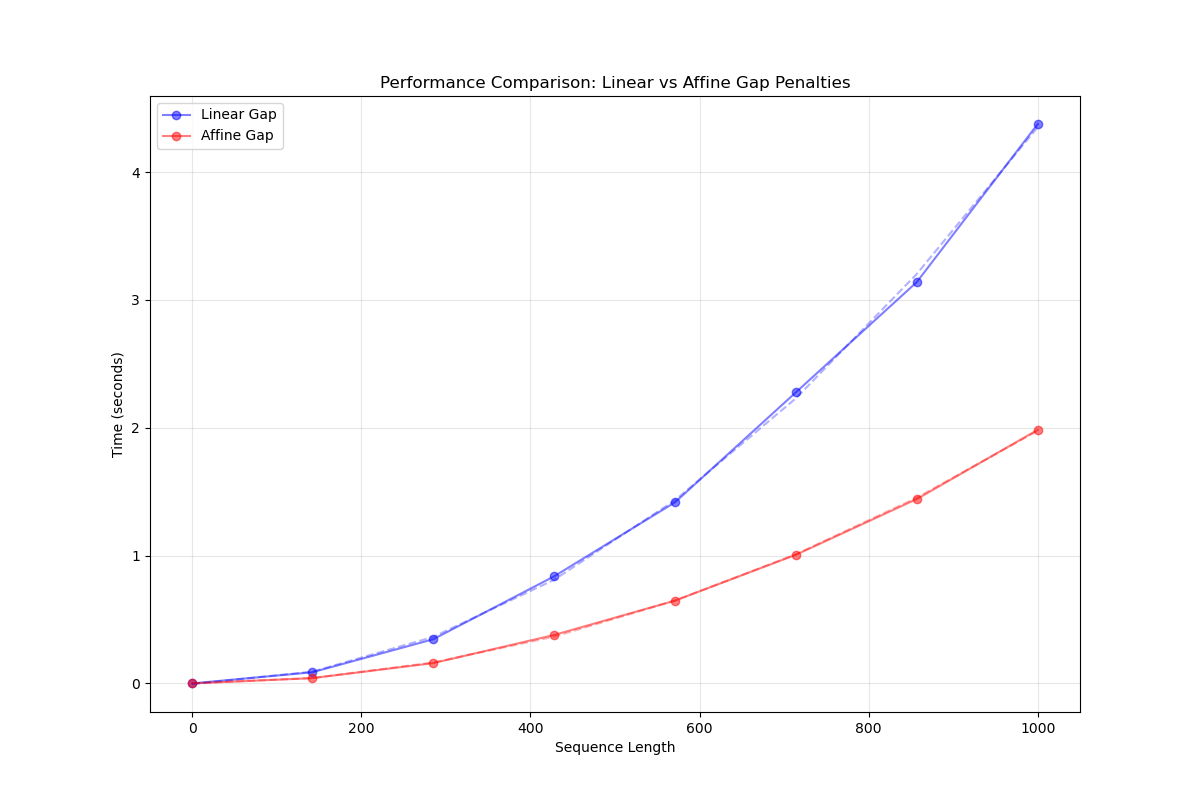
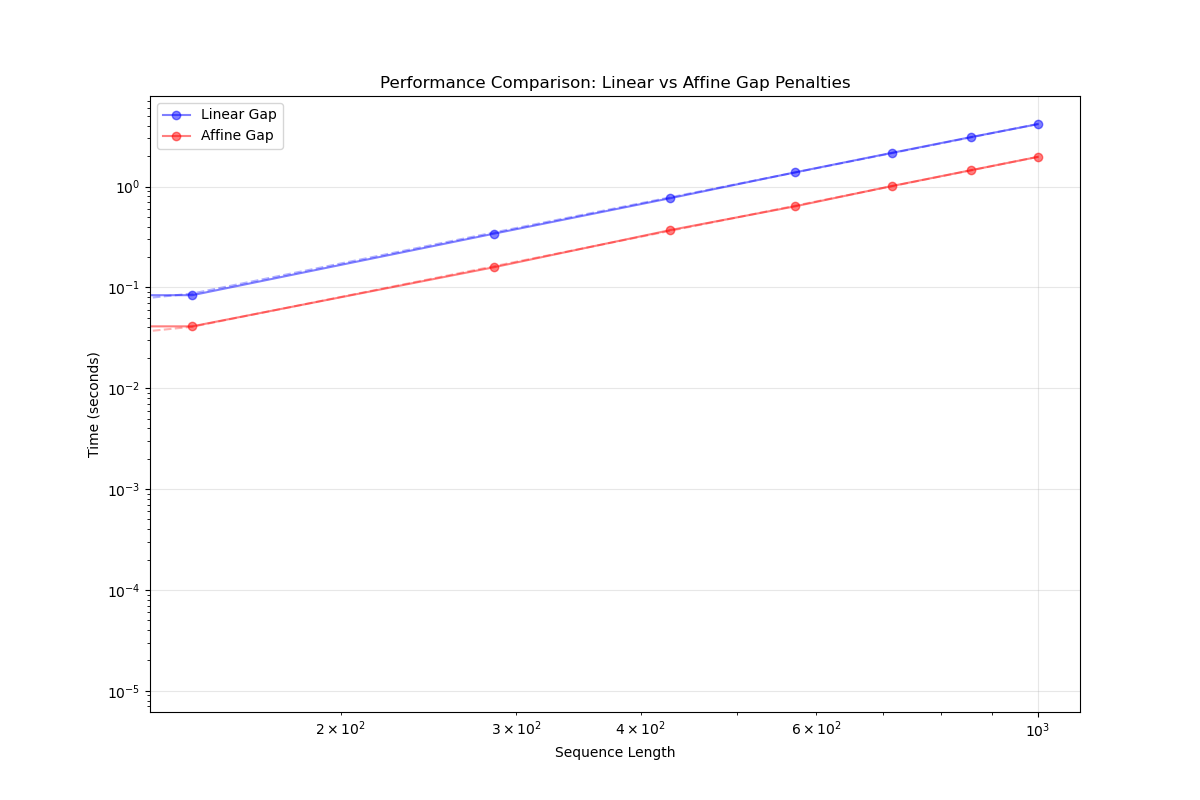
fixed project2

diff --git a/project2/scripts/benchmark.py b/project2/scripts/benchmark.py
@@ -6,6 +6,7 @@ from typing import Tuple
 
 import matplotlib.pyplot as plt
 import numpy as np
+
 from scripts.global_affine import calc_cost_affine
 from scripts.global_linear import calc_cost_linear
 
@@ -62,7 +63,8 @@ def plot_results(
 
     plt.plot(seq_lengths, [linear_fit(n) for n in seq_lengths], "b--", alpha=0.3)
     plt.plot(seq_lengths, [affine_fit(n) for n in seq_lengths], "r--", alpha=0.3)
-
+    plt.xscale("log")
+    plt.yscale("log")
     plt.xlabel("Sequence Length")
     plt.ylabel("Time (seconds)")
     plt.title("Performance Comparison: Linear vs Affine Gap Penalties")
